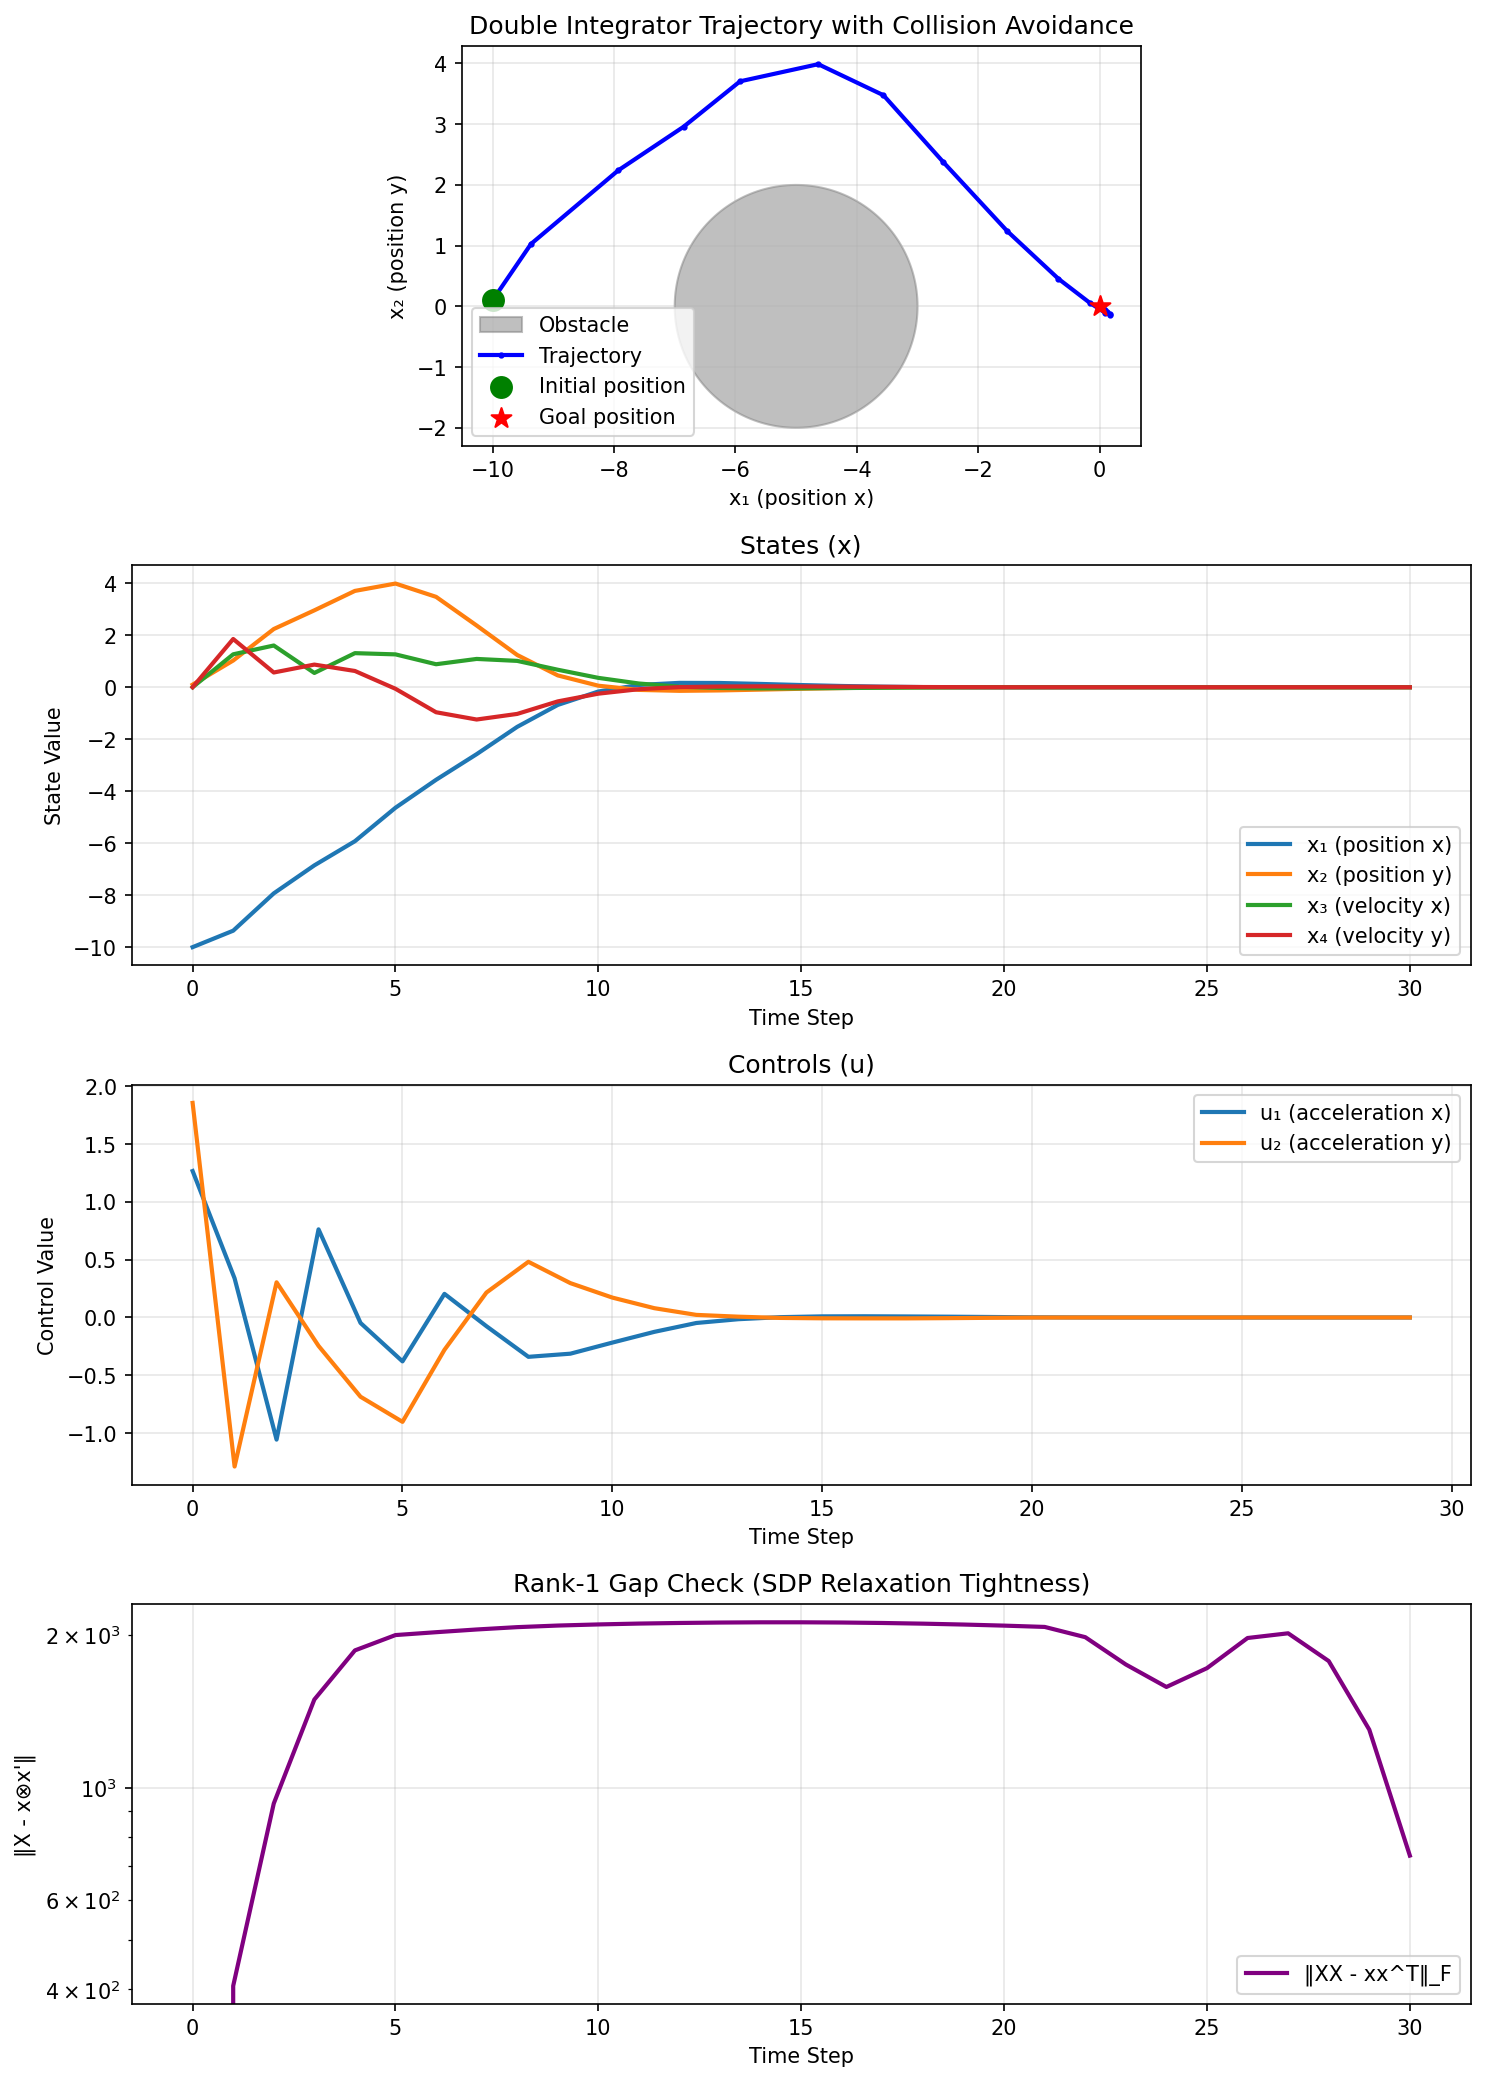
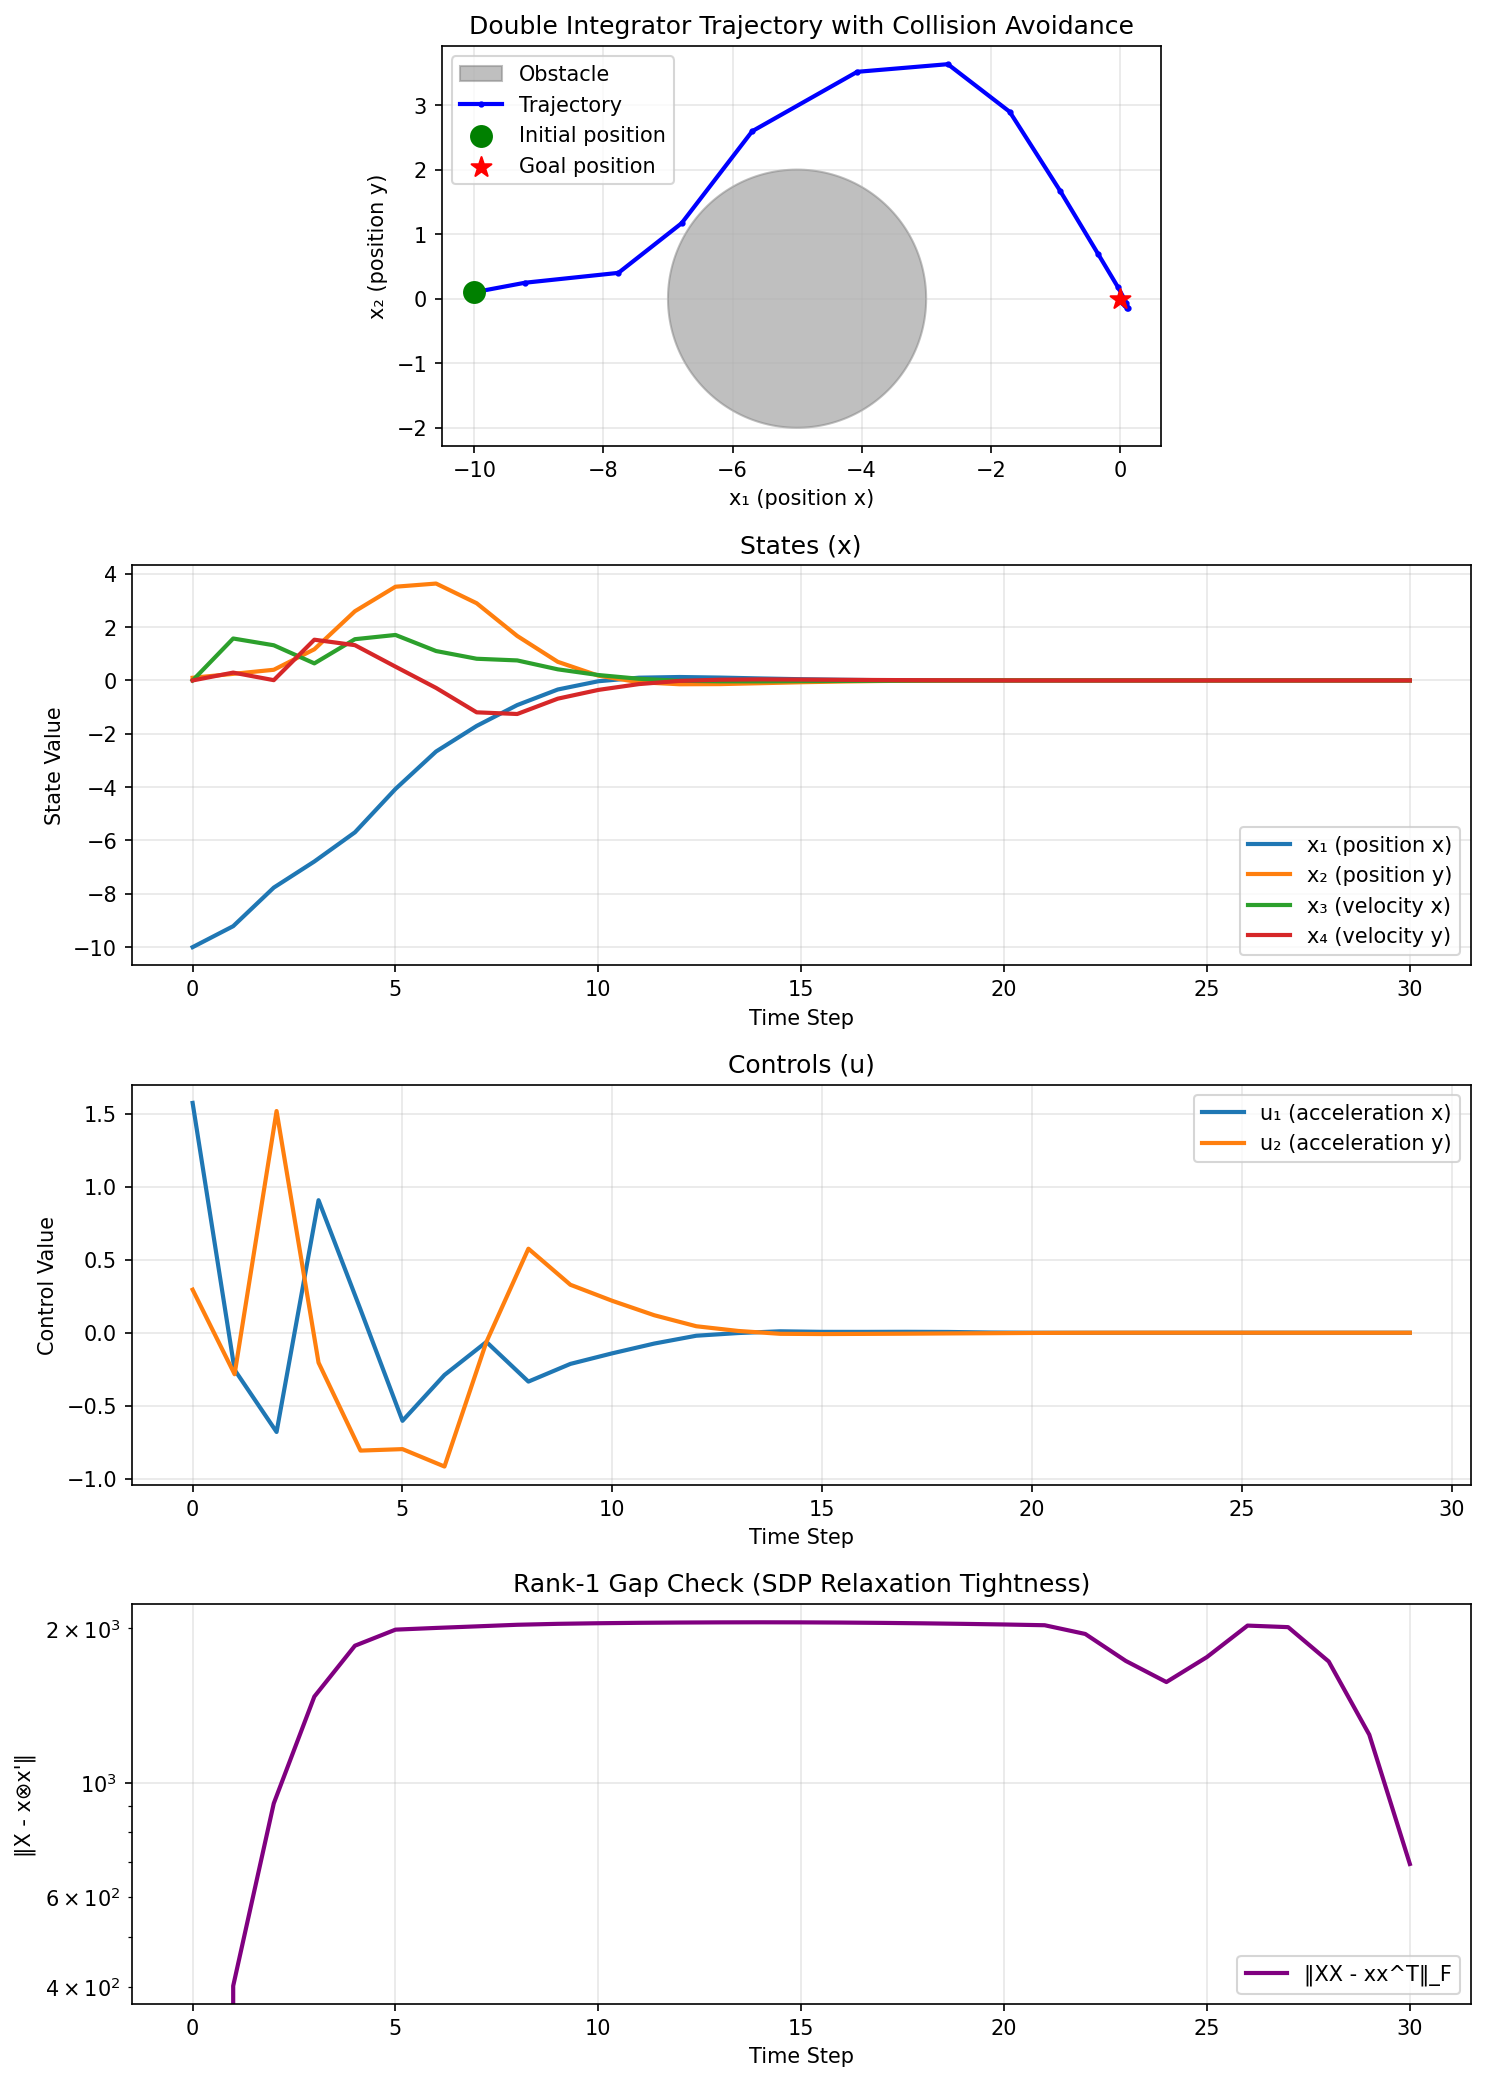
half vectors

diff --git a/src/tinympc/admm.cpp b/src/tinympc/admm.cpp
@@ -82,10 +82,7 @@ static inline tinyVector project_halfspace_leq(const tinyVector& z,
     return z - step * a;
 }
 
-// ---------- PSD utilities ----------
-static inline void symm_to_vec(const tinyMatrix& S, tinyVector& v) {
-    Eigen::Map<tinyMatrix>(v.data(), S.rows(), S.cols()) = S;  // col-major
-}
+// ---------- PSD utilities (svec/smat live in psd_support.hpp) ----------
 
 static inline void assemble_psd_block(TinySolver* solver, int k, tinyMatrix& M, bool last)
 {
@@ -151,8 +148,8 @@ void update_psd_slack(TinySolver *solver)
         tinyMatrix M(psd_dim, psd_dim);
         assemble_psd_block(solver, k, M, last);
 
-        tinyMatrix Hk = Eigen::Map<const tinyMatrix>(
-            solver->work->Hpsd.col(k).data(), psd_dim, psd_dim);
+        tinyMatrix Hk(psd_dim, psd_dim);
+        smat_inplace(solver->work->Hpsd.col(k), psd_dim, Hk);
 
         // Guard against non-finite input to the eigen solver
         if (!M.allFinite() || !Hk.allFinite()) {
@@ -184,8 +181,8 @@ void update_psd_slack(TinySolver *solver)
         tinyMatrix Mproj = es.eigenvectors() * lam.asDiagonal() * es.eigenvectors().transpose();
         Mproj *= scale; // unscale
 
-        tinyVector col(psd_dim*psd_dim);
-        symm_to_vec(Mproj, col);
+        tinyVector col(svec_size(psd_dim));
+        svec_inplace(Mproj, col);
         solver->work->Spsd_new.col(k) = col;
 
         std::cout << "[PSD] k=" << k
@@ -208,10 +205,10 @@ void update_psd_dual(TinySolver *solver)
         tinyMatrix M(psd_dim, psd_dim);
         assemble_psd_block(solver, k, M, last);
 
-        tinyMatrix Hk = Eigen::Map<const tinyMatrix>(
-            solver->work->Hpsd.col(k).data(), psd_dim, psd_dim);
-        tinyMatrix Snew = Eigen::Map<const tinyMatrix>(
-            solver->work->Spsd_new.col(k).data(), psd_dim, psd_dim);
+        tinyMatrix Hk(psd_dim, psd_dim);
+        tinyMatrix Snew(psd_dim, psd_dim);
+        smat_inplace(solver->work->Hpsd.col(k), psd_dim, Hk);
+        smat_inplace(solver->work->Spsd_new.col(k), psd_dim, Snew);
 
         // Under-relaxed dual update to improve stability
         const tinytype gamma_psd = 0.2;
@@ -228,7 +225,9 @@ void update_psd_dual(TinySolver *solver)
                 Hk(r,c) = v;
             }
         }
-        tinyVector tmpH(psd_dim*psd_dim); symm_to_vec(Hk, tmpH); solver->work->Hpsd.col(k) = tmpH;
+        tinyVector tmpH(svec_size(psd_dim));
+        svec_inplace(Hk, tmpH);
+        solver->work->Hpsd.col(k) = tmpH;
     }
 }
 
@@ -486,10 +485,10 @@ void update_linear_cost(TinySolver *solver)
         for (int k = 0; k < solver->work->N; ++k)
         {
             const bool last = (k == solver->work->N-1);
-            tinyMatrix Snew = Eigen::Map<const tinyMatrix>(
-                solver->work->Spsd_new.col(k).data(), psd_dim, psd_dim);
-            tinyMatrix Hk = Eigen::Map<const tinyMatrix>(
-                solver->work->Hpsd.col(k).data(), psd_dim, psd_dim);
+            tinyMatrix Snew(psd_dim, psd_dim);
+            tinyMatrix Hk(psd_dim, psd_dim);
+            smat_inplace(solver->work->Spsd_new.col(k), psd_dim, Snew);
+            smat_inplace(solver->work->Hpsd.col(k), psd_dim, Hk);
 
             const tinyMatrix T = Snew - Hk; // "znew - y" analog
             if (!T.allFinite()) continue; // guard

diff --git a/src/tinympc/psd_support.hpp b/src/tinympc/psd_support.hpp
@@ -4,7 +4,44 @@
 #include <iostream>
 #include <vector>
 #include <array>
+#include <cmath>
 #include <tinympc/tiny_api.hpp>
+
+// ---------------- svec/smat (half-vectorization with sqrt(2) scaling) -----------------
+// Packs a symmetric p x p matrix S into a length m = p(p+1)/2 vector v
+// using column-wise lower-triangular order: [S(0,0), S(1,0)*sqrt2, ..., S(p-1,0)*sqrt2,
+//                                            S(1,1), S(2,1)*sqrt2, ..., S(p-1,1)*sqrt2, ...]
+// Off-diagonals are scaled by sqrt(2) so that:  trace(A^T B) = svec(A)^T svec(B)
+inline int svec_size(int p) { return p * (p + 1) / 2; }
+
+inline void smat_inplace(const tinyVector& v, int p, tinyMatrix& S) {
+    S.setZero(p, p);
+    const tinytype sqrt2 = tinytype(M_SQRT2);
+    int idx = 0;
+    for (int c = 0; c < p; ++c) {
+        // diagonal
+        S(c, c) = v(idx++);
+        // below diagonal (rows r > c)
+        for (int r = c + 1; r < p; ++r) {
+            tinytype x = v(idx++) / sqrt2; // invert scaling
+            S(r, c) = x;
+            S(c, r) = x;
+        }
+    }
+}
+
+inline void svec_inplace(const tinyMatrix& S, tinyVector& v) {
+    const int p = S.rows();
+    const tinytype sqrt2 = tinytype(M_SQRT2);
+    v.setZero(svec_size(p));
+    int idx = 0;
+    for (int c = 0; c < p; ++c) {
+        v(idx++) = S(c, c);
+        for (int r = c + 1; r < p; ++r) {
+            v(idx++) = sqrt2 * S(r, c);
+        }
+    }
+}
 
 // Manual Kronecker product implementation
 template<typename Derived1, typename Derived2>
@@ -59,13 +96,15 @@ inline int tiny_enable_psd(TinySolver* solver, int nx0, int nu0, tinytype rho_ps
 
     const int psd_dim = 1 + nx0 + nu0;
     const int N = solver->work->N;
+    const int m = svec_size(psd_dim);
 
-    solver->work->Spsd     = tinyMatrix::Zero(psd_dim*psd_dim, N);
-    solver->work->Spsd_new = tinyMatrix::Zero(psd_dim*psd_dim, N);
-    solver->work->Hpsd     = tinyMatrix::Zero(psd_dim*psd_dim, N);
+    solver->work->Spsd     = tinyMatrix::Zero(m, N);
+    solver->work->Spsd_new = tinyMatrix::Zero(m, N);
+    solver->work->Hpsd     = tinyMatrix::Zero(m, N);
 
     std::cout << "[PSD] Enabled: nx0=" << nx0 << " nu0=" << nu0
-              << " psd_dim=" << psd_dim << " rho_psd=" << rho_psd << "\n";
+              << " psd_dim=" << psd_dim << " (half m=" << m << ")"
+              << " rho_psd=" << rho_psd << "\n";
     return 0;
 }
 

diff --git a/examples/tiny_psd_demo.cpp b/examples/tiny_psd_demo.cpp
@@ -68,8 +68,8 @@ extern "C" int main() {
     // Enable PSD coupling with a small rho_psd initially (0.5–1.0)
     const bool ENABLE_PSD = true;
     if (ENABLE_PSD) {
-        // Start modest; can ramp to 5 later if calm
-        tiny_enable_psd(solver, NX0, NU0, /*rho_psd*/ tinytype(1.2));
+        // Start modest with rho_psd = 1.2; can ramp to 5 later if calm
+        tiny_enable_psd(solver, NX0, NU0, /*rho_psd*/ tinytype(1.1));
     }
 
     // Lifted initial condition: [x0; vec(x0*x0')]
@@ -93,7 +93,7 @@ extern "C" int main() {
         const int nx0 = NX0, nu0 = NU0;
         const int nxu_loc = nx0*nu0, nux_loc = nu0*nx0;
         const int baseUU = nu0 + nxu_loc + nux_loc; // start index of vec(UU)
-        const tinytype q_xx = tinytype(0.8);  // linear weight on diag(XX)
+        const tinytype q_xx = tinytype(1.0);  // linear weight on diag(XX)
         const tinytype r_uu = tinytype(10.0); // linear weight on diag(UU)
 
         Mat Xref = Mat::Zero(nxL, N);

diff --git a/src/tinympc/types.hpp b/src/tinympc/types.hpp
@@ -222,10 +222,11 @@ typedef struct {
     // Temporaries
     tinyVector Qu;      // nu x 1
 
-    // PSD constraint variables
-    tinyMatrix Spsd;     // PSD slack variables (psd_dim^2 x N)
-    tinyMatrix Spsd_new; // Updated PSD slack variables (psd_dim^2 x N)
-    tinyMatrix Hpsd;     // PSD dual variables (psd_dim^2 x N)
+    // PSD constraint variables (stored in half-vectorized form)
+    // Each column has length m = psd_dim * (psd_dim + 1) / 2
+    tinyMatrix Spsd;     // PSD slack variables (m x N)
+    tinyMatrix Spsd_new; // Updated PSD slack variables (m x N)
+    tinyMatrix Hpsd;     // PSD dual variables (m x N)
 
     // Variables for keeping track of solve status
     tinytype primal_residual_state;
